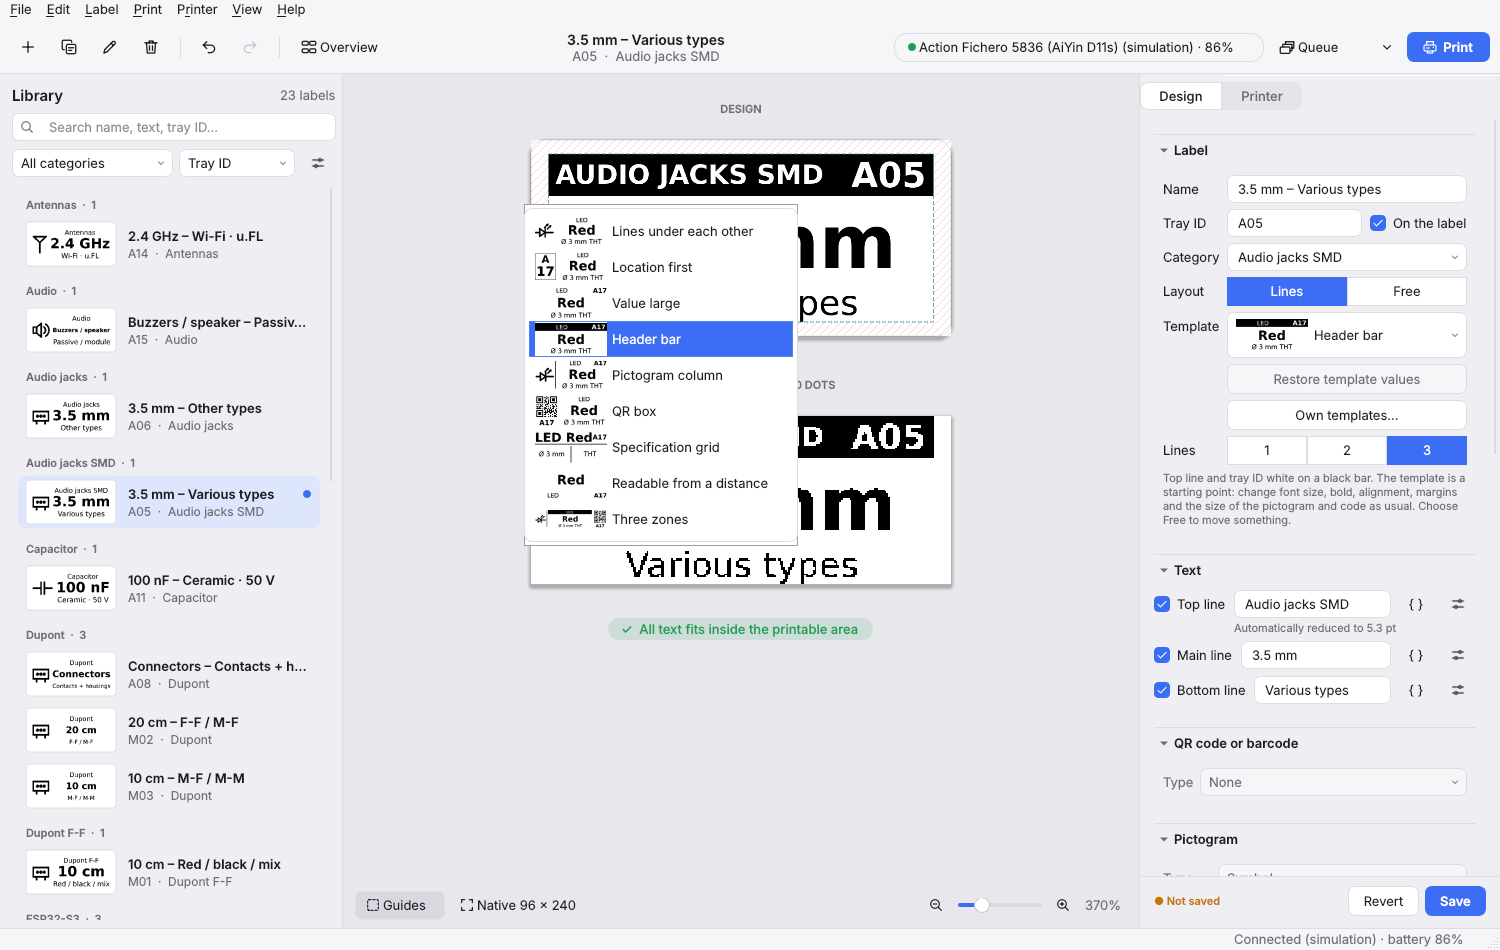
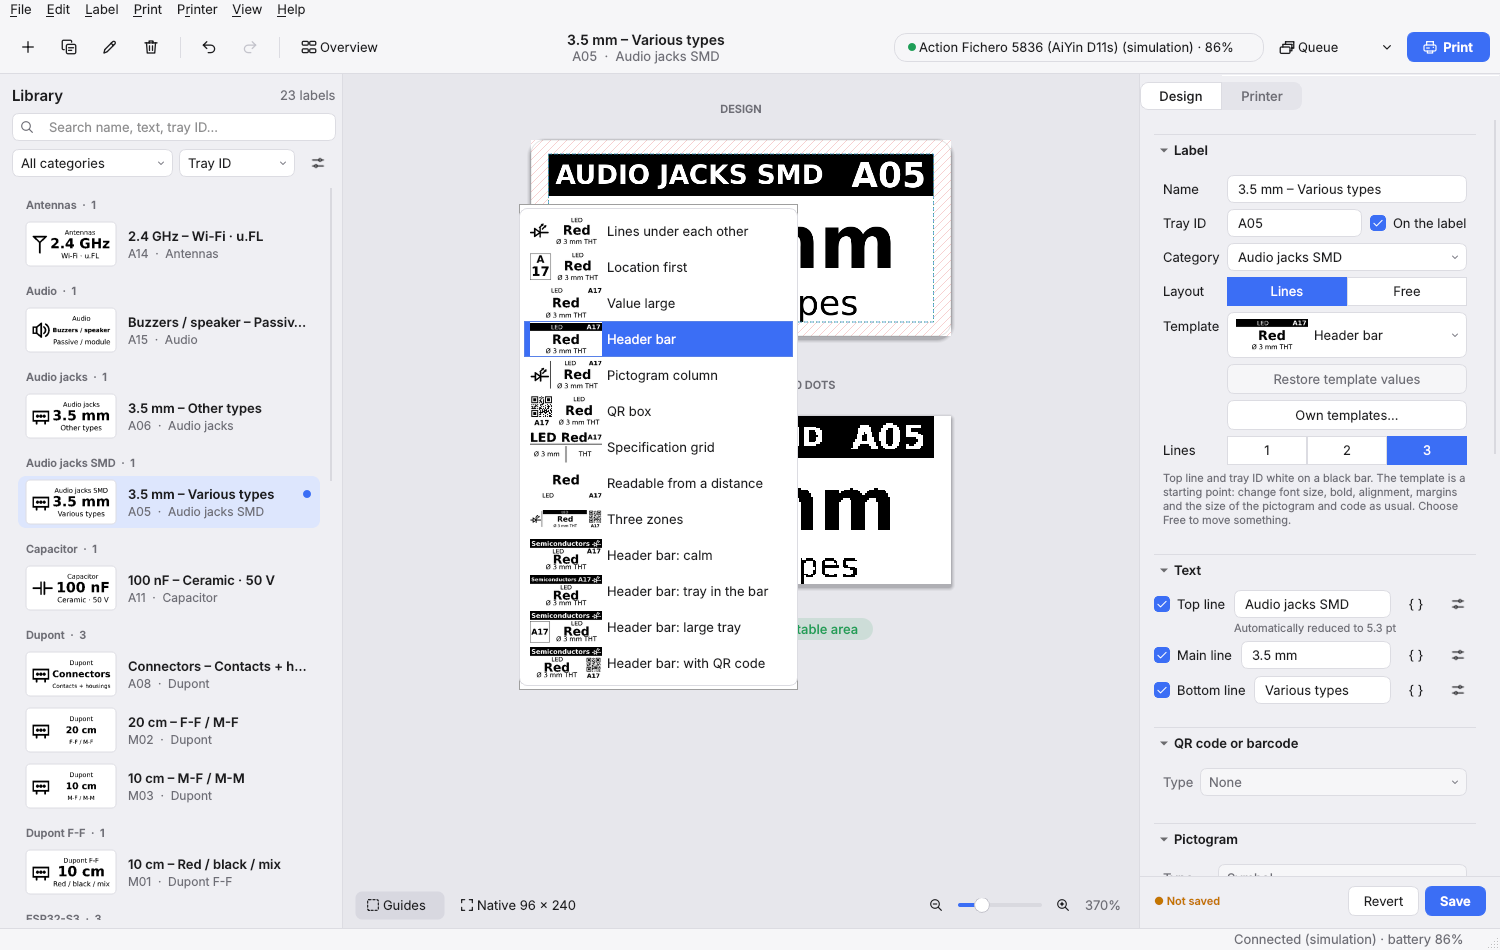
Vier kopbalk-sjablonen: categorie en pictogram wit op een zwarte balk
Rustig (lade-ID rechtsboven), lade in de balk (op smalle rollen in het
witte deel), lade groot in een kader, en met QR-code van het lade-ID.
Lettergrootte bij het omzetten naar Vrij preciezer bewaard, zodat kleine,
verkleinde tekst er hetzelfde uitziet.

Changed region(s): [[0.3373, 0.2137, 0.552, 0.7326]]

diff --git a/src/etiknivo/rendering/templates.py b/src/etiknivo/rendering/templates.py
@@ -69,6 +69,11 @@ TEMPLATE_STYLES: dict[LabelTemplate, tuple[tuple[float, bool, HAlign], ...]] = {
                              (6.5, False, HAlign.LEFT)),
     LabelTemplate.ZONES: ((6, True, HAlign.LEFT), (15, True, HAlign.LEFT),
                           (7, False, HAlign.LEFT)),
+    **{t: ((7, False, HAlign.LEFT), (15, True, HAlign.LEFT), (6.5, False, HAlign.LEFT))
+       for t in (LabelTemplate.BAR_CALM, LabelTemplate.BAR_TRAY)},
+    # beside the tray box or the QR code the text column is narrower
+    **{t: ((7, False, HAlign.LEFT), (14, True, HAlign.LEFT), (6, False, HAlign.LEFT))
+       for t in (LabelTemplate.BAR_LOCATION, LabelTemplate.BAR_QR)},
 }
 
 #: the parts of a line's look a template sets
@@ -212,8 +217,11 @@ class _Builder:
 
 
 #: templates built around a pictogram, and around the QR code's content
-PICTURE_TEMPLATES = (LabelTemplate.ICON, LabelTemplate.ZONES)
-CODE_TEMPLATES = (LabelTemplate.QR, LabelTemplate.ZONES)
+#: the templates with a black bar of the category and the pictogram
+BAR_TEMPLATES = (LabelTemplate.BAR_CALM, LabelTemplate.BAR_TRAY, LabelTemplate.BAR_LOCATION,
+                 LabelTemplate.BAR_QR)
+PICTURE_TEMPLATES = (LabelTemplate.ICON, LabelTemplate.ZONES, *BAR_TEMPLATES)
+CODE_TEMPLATES = (LabelTemplate.QR, LabelTemplate.ZONES, LabelTemplate.BAR_QR)
 #: templates that show the tray ID as a text of their own
 TRAY_TEMPLATES = tuple(t for t in LabelTemplate
                        if t not in (LabelTemplate.NONE, LabelTemplate.CUSTOM, *CODE_TEMPLATES))
@@ -480,6 +488,11 @@ def apply_template(label: Label, template: LabelTemplate, custom_id: str = "") -
         added.append("code_text")
 
 
+def category_field() -> str:
+    """``{Categorie}`` in the current language."""
+    return "{" + tr(BUILTIN_FIELDS["category"][0]) + "}"
+
+
 def tray_field() -> str:
     """``{Lade}`` in the current language, so the free layout shows it as typed."""
     return "{" + tr(BUILTIN_FIELDS["tray_id"][0]) + "}"
@@ -643,6 +656,106 @@ def _zones(b: _Builder) -> None:
             [(SLOT_MAIN, 5.5, 15, True), (SLOT_BOTTOM, 3.0, 7, False)])
 
 
+#: height of the category bar, at a printhead of 12 mm
+BAR_MM = 3.4
+
+
+def _category_bar(b: _Builder, tray: bool = False) -> float:
+    """The category and the pictogram (and with *tray* the tray ID) white on a
+    black bar over the full width; returns the height used."""
+    s, w = b.s, b.w
+    category = b.label.category.strip()
+    tray = tray and bool(b.tray)
+    if not category and not b.has_picture() and not tray:
+        return 0.0
+    bar = BAR_MM * s
+    right = w - 0.4 * s
+    if b.has_picture():
+        right = w - 3.8 * s
+        b.picture(right, 0.25 * s, 3.4 * s, bar - 0.5 * s)
+        right -= 0.4 * s
+    if tray:
+        tray_w = min(5.0 * s, w * 0.2)
+        b.text(right - tray_w, 0.15 * s, tray_w, bar - 0.3 * s, tray_field(), 7, bold=True,
+               align=HAlign.RIGHT, role="tray")
+        right -= tray_w + 0.6 * s
+    if category:
+        b.text(0.4 * s, 0.15 * s, right - 0.4 * s, bar - 0.3 * s, category_field(), 7,
+               bold=True, role="category")
+    b.element(ElementKind.INVERT, 0, 0, w, bar)
+    return bar
+
+
+def _bar_lines(b: _Builder, x: float, y: float, w: float, tray: bool = False) -> None:
+    """The lines below the bar: the top line small (with *tray* the tray ID on
+    its right), the main line large, the bottom line small."""
+    s, h = b.s, b.h
+    tray = tray and bool(b.tray)
+    top = b.line(SLOT_TOP)
+    if top or tray:
+        top_h = 2.4 * s
+        tray_w = min(6.0 * s, w * 0.35) if tray else 0.0
+        b.text(x, y + 0.1 * s, w - tray_w, top_h - 0.1 * s, top, 7, role="top", slot=SLOT_TOP)
+        b.text(x + w - tray_w, y + 0.1 * s, tray_w, top_h - 0.1 * s,
+               tray_field() if tray else "", 7, bold=True, align=HAlign.RIGHT, role="tray")
+        y += top_h
+    # the bottom line keeps a little room under it for descenders such as |
+    b.stack(x, y, w, h - y - 0.3 * s, [(SLOT_MAIN, 3.7, 15, True),
+                                      (SLOT_BOTTOM, 2.3, 6.5, False)])
+
+
+def _bar_calm(b: _Builder) -> None:
+    s = b.s
+    y = _category_bar(b)
+    _bar_lines(b, 0.3 * s, y, b.w - 0.6 * s, tray=True)
+
+
+#: below this width (at a 12 mm printhead) the tray ID does not fit in the bar
+#: next to the category, and goes to the right of the top line instead
+_BAR_TRAY_MIN_MM = 24.0
+
+
+def _bar_tray(b: _Builder) -> None:
+    s = b.s
+    in_bar = b.w / s >= _BAR_TRAY_MIN_MM
+    y = _category_bar(b, tray=in_bar)
+    _bar_lines(b, 0.3 * s, y, b.w - 0.6 * s, tray=not in_bar)
+
+
+def _bar_location(b: _Builder) -> None:
+    s, h = b.s, b.h
+    y = _category_bar(b)
+    x = 0.3 * s
+    if b.tray:
+        box_w = min(7.5 * s, b.w * 0.3)
+        top = y + 0.5 * s
+        b.element(ElementKind.BOX, 0, top, box_w, h - top)
+        b.text(0.4 * s, top + 0.3 * s, box_w - 0.8 * s, h - top - 0.6 * s, tray_field(), 14,
+               bold=True, align=HAlign.CENTER, role="tray")
+        x = box_w + 0.8 * s
+    _bar_lines(b, x, y, b.w - x - 0.2 * s)
+
+
+def _bar_qr(b: _Builder) -> None:
+    s, w, h = b.s, b.w, b.h
+    y = _category_bar(b)
+    x1 = w - 0.3 * s
+    if b.has_code():
+        content = b.label.code.text.strip() or tray_field()
+        cap = 2.2 * s if b.label.code.caption else 0.0
+        room = h - y - 0.4 * s - cap
+        q = min(b.column(room, "code"), room, w * 0.3)
+        col = max(q, 6.6 * s) if cap else q
+        cx = w - col
+        qy = y + 0.4 * s + (room - q) / 2
+        b.element(ElementKind.QR, cx + (col - q) / 2, qy, q, q, text=content)
+        if cap:
+            b.text(cx, h - cap, col, cap, content, 6.5, bold=True, align=HAlign.CENTER,
+                   role="code")
+        x1 = cx - 0.6 * s
+    _bar_lines(b, 0.3 * s, y, x1 - 0.3 * s)
+
+
 _BUILDERS = {
     LabelTemplate.LOCATION: _location,
     LabelTemplate.VALUE: _value,
@@ -652,6 +765,10 @@ _BUILDERS = {
     LabelTemplate.GRID: _grid,
     LabelTemplate.DISTANCE: _distance,
     LabelTemplate.ZONES: _zones,
+    LabelTemplate.BAR_CALM: _bar_calm,
+    LabelTemplate.BAR_TRAY: _bar_tray,
+    LabelTemplate.BAR_LOCATION: _bar_location,
+    LabelTemplate.BAR_QR: _bar_qr,
     LabelTemplate.CUSTOM: _custom,
 }
 

diff --git a/tests/test_templates.py b/tests/test_templates.py
@@ -20,6 +20,7 @@ from etiknivo.model import (
 )
 from etiknivo.rendering.engine import RenderEngine
 from etiknivo.rendering.templates import (
+    BAR_TEMPLATES,
     apply_template,
     capitals,
     differs_from_template,
@@ -398,3 +399,35 @@ def test_panel_switches_code_and_tray_off(qtbot, window) -> None:  # noqa: ANN00
     box.setCurrentIndex(box.findData(LabelTemplate.NONE.value))
     box.activated.emit(box.currentIndex())
     assert not props.tray_show.isVisibleTo(props) and barcode.isEnabled()
+
+
+@pytest.mark.parametrize("template", BAR_TEMPLATES)
+def test_bar_templates_show_category_and_pictogram_white_on_black(
+        engine: RenderEngine, template: LabelTemplate) -> None:
+    lbl = led()
+    lbl.picture.kind = PictureKind.NONE
+    apply_template(lbl, template)
+    assert lbl.picture.kind == PictureKind.SYMBOL  # the template picks one
+    items, _ = engine.template_items(lbl)
+    texts = {p.role: p.element.text for p in items if p.element.kind == ElementKind.TEXT}
+    assert texts["category"] == "{Categorie}"
+    kinds = [p.element.kind for p in items]
+    assert ElementKind.INVERT in kinds and ElementKind.SYMBOL in kinds
+    r = engine.render(lbl)
+    px0, py0, px1, _ = engine.printable_box
+    bar = (px0, py0, px1, py0 + 27)  # 3.4 mm
+    area = (bar[2] - bar[0]) * (bar[3] - bar[1])
+    assert 0.6 * area < ink(r.mono, bar) < area
+    assert (ElementKind.QR in kinds) == (template == LabelTemplate.BAR_QR)
+
+
+def test_tray_goes_out_of_the_bar_on_a_narrow_roll() -> None:
+    def tray_in_bar(engine: RenderEngine) -> bool:
+        lbl = led()
+        apply_template(lbl, LabelTemplate.BAR_TRAY)
+        items, _ = engine.template_items(lbl)
+        bar = next(p.element for p in items if p.element.kind == ElementKind.INVERT)
+        tray = next(p.element for p in items if p.role == "tray")
+        return tray.y_mm < bar.h_mm
+    assert tray_in_bar(RenderEngine())
+    assert not tray_in_bar(RenderEngine(RenderEngine().profile.with_label(22.0, 14.0)))

diff --git a/src/etiknivo/model.py b/src/etiknivo/model.py
@@ -163,6 +163,11 @@ class LabelTemplate(StrEnum):
     GRID = "grid"
     DISTANCE = "distance"
     ZONES = "zones"
+    #: a black bar with the category and the pictogram, the text below it
+    BAR_CALM = "bar_calm"
+    BAR_TRAY = "bar_tray"
+    BAR_LOCATION = "bar_location"
+    BAR_QR = "bar_qr"
     #: one of the user's own templates (see ``Label.custom_template``)
     CUSTOM = "custom"
 
@@ -191,6 +196,18 @@ TEMPLATE_INFO: dict[LabelTemplate, tuple[str, str]] = {
     LabelTemplate.ZONES: (N_("Drie zones"),
                           N_("Pictogram, tekst met kopbalk en QR-code naast elkaar; voor "
                              "lange labels")),
+    LabelTemplate.BAR_CALM: (N_("Kopbalk: rustig"),
+                             N_("Categorie en pictogram op een zwarte balk; lade-ID "
+                                "rechtsboven in het witte deel")),
+    LabelTemplate.BAR_TRAY: (N_("Kopbalk: lade in de balk"),
+                             N_("Categorie, lade-ID en pictogram op een zwarte balk; "
+                                "eronder de drie regels")),
+    LabelTemplate.BAR_LOCATION: (N_("Kopbalk: lade groot"),
+                                 N_("Categorie en pictogram op een zwarte balk; lade-ID "
+                                    "groot in een kader links")),
+    LabelTemplate.BAR_QR: (N_("Kopbalk: met QR-code"),
+                           N_("Categorie en pictogram op een zwarte balk; QR-code met "
+                              "lade-ID rechts")),
 }
 
 #: the layout stored for each quick choice of 1, 2 or 3 lines

diff --git a/src/etiknivo/locale/en.py b/src/etiknivo/locale/en.py
@@ -925,6 +925,18 @@ EN: dict[str, str] = {
     "Drie zones": "Three zones",
     "Pictogram, tekst met kopbalk en QR-code naast elkaar; voor lange labels":
         "Pictogram, text with a header bar and QR code side by side; for long labels",
+    "Kopbalk: rustig": "Header bar: calm",
+    "Categorie en pictogram op een zwarte balk; lade-ID rechtsboven in het witte deel":
+        "Category and pictogram on a black bar; tray ID top right in the white part",
+    "Kopbalk: lade in de balk": "Header bar: tray in the bar",
+    "Categorie, lade-ID en pictogram op een zwarte balk; eronder de drie regels":
+        "Category, tray ID and pictogram on a black bar; the three lines below it",
+    "Kopbalk: lade groot": "Header bar: large tray",
+    "Categorie en pictogram op een zwarte balk; lade-ID groot in een kader links":
+        "Category and pictogram on a black bar; tray ID large in a frame on the left",
+    "Kopbalk: met QR-code": "Header bar: with QR code",
+    "Categorie en pictogram op een zwarte balk; QR-code met lade-ID rechts":
+        "Category and pictogram on a black bar; QR code with the tray ID on the right",
     "Kies een pictogram voor dit sjabloon": "Choose a pictogram for this template",
     "Dit sjabloon heeft tekst nodig: vul de regels of de lade-ID in":
         "This template needs text: fill in the lines or the tray ID",

diff --git a/scripts/screenshots.py b/scripts/screenshots.py
@@ -134,7 +134,9 @@ def template_shots(app: QApplication, out: Path, names: tuple[str, str, str]) ->
     lbl.top.text, lbl.top.enabled = "LED", True
     lbl.picture.kind, lbl.picture.symbol = PictureKind.SYMBOL, "led"
     tiles = []
-    for tpl in LabelTemplate:
+    # the long-label template last, so it can get a row of its own
+    order = sorted(LabelTemplate, key=lambda t: t == LabelTemplate.ZONES)
+    for tpl in order:
         if tpl == LabelTemplate.CUSTOM:  # the user's own: none in the sheet
             continue
         apply_template(lbl, tpl)

diff --git a/src/etiknivo/rendering/engine.py b/src/etiknivo/rendering/engine.py
@@ -846,7 +846,7 @@ class RenderEngine:
                 (x0, y0, x1, y1), size = r.element_text[el.id]
                 # two dots of air, on the side the text does not lean against
                 left = {HAlign.LEFT: 0.0, HAlign.CENTER: 1.0, HAlign.RIGHT: 2.0}[el.align]
-                el.font_size_pt = round(size, 2)
+                el.font_size_pt = round(size, 4)
                 el.move_to((x0 - left - px0) / dpm, (y0 - 1.0 - py0) / dpm)
                 el.resize((x1 - x0 + 2.0) / dpm, (y1 - y0 + 2.0) / dpm)
             out.append(el)

diff --git a/docs/nl/handleiding.md b/docs/nl/handleiding.md
@@ -177,14 +177,18 @@ Bij **Sjabloon** kies je met één klik een indeling zoals professionele bak-, m
 | Specificatie-raster | boven- en hoofdregel als kop, de onderregel in vakjes | dezelfde eigenschap staat altijd op dezelfde plek |
 | Op afstand leesbaar | alleen de hoofdregel, zo groot als past | één woord dat het vak onderscheidt |
 | Drie zones | pictogram, tekst met kopbalk, QR-code naast elkaar | bedoeld voor lange labels (40 of 50 mm) |
+| Kopbalk: rustig | categorie en pictogram wit op een zwarte balk; eronder bovenregel met lade-ID rechts, hoofdregel groot, onderregel klein | de balk groepeert de kast, de hoofdregel houdt de meeste ruimte |
+| Kopbalk: lade in de balk | als *rustig*, maar het lade-ID staat wit in de balk naast het pictogram | het witte deel is helemaal voor de tekst; op smalle rollen gaat het lade-ID naar het witte deel |
+| Kopbalk: lade groot | als *rustig*, met het lade-ID groot in een kader links | het vak lees je van een afstand in de kast |
+| Kopbalk: met QR-code | als *rustig*, met rechts een QR-code van het lade-ID en het lade-ID eronder | voor wie met de telefoon scant |
 
 Goed om te weten:
 
 - **Specificatie-raster**: scheid de vakjes in de onderregel met `|`, bijvoorbeeld `Ø 3 mm | THT | 20 mA | 2,0 V`. Zonder `|` staat de hele onderregel in één vak.
-- **Pictogram-kolom** en **Drie zones** kiezen zelf een passend symbool als het label nog geen pictogram had. Bij **QR-vak** en **Drie zones** staat de inhoud van de code standaard op `{Lade}`. Kies je daarna een sjabloon dat ze niet gebruikt (bijvoorbeeld weer *Regels onder elkaar*), dan gaat wat het sjabloon zelf aanzette weer uit. Een pictogram dat je zelf had gekozen of daarna zelf veranderde, blijft staan.
+- **Pictogram-kolom**, **Drie zones** en de vier **Kopbalk**-sjablonen kiezen zelf een passend symbool als het label nog geen pictogram had. Bij **QR-vak**, **Drie zones** en **Kopbalk: met QR-code** staat de inhoud van de code standaard op `{Lade}`. Kies je daarna een sjabloon dat ze niet gebruikt (bijvoorbeeld weer *Regels onder elkaar*), dan gaat wat het sjabloon zelf aanzette weer uit. Een pictogram dat je zelf had gekozen of daarna zelf veranderde, blijft staan.
 - Met *Zelfde lettergrootte binnen de categorie* aan krijgen labels met hetzelfde sjabloon in een categorie per onderdeel dezelfde lettergrootte, zodat de kast er rustig uitziet.
 - **Voortbouwen op een sjabloon**: een sjabloon is een startpunt. Bij het kiezen krijgen de regels de lettergrootte, vet en uitlijning van het sjabloon; daarna pas je die gewoon aan in *Tekst*. De lettergrootte is de grootste grootte in het vak: past de tekst niet, dan wordt hij kleiner. Ook de marges (maken het sjabloon kleiner), *Wit op zwart*, de rand en de grootte (Klein, Middel, Groot) van het pictogram en de QR-code werken. Wat het sjabloon zelf bepaalt (verticaal, regelafstand, rotatie, de lijn tussen regels en de plaats van pictogram en code) is grijs, met de reden erbij. **Sjabloonwaarden herstellen** zet je wijzigingen terug; ga je terug naar *Regels onder elkaar*, dan krijgen de regels hun opmaak van vóór het sjabloon terug.
-- **Onderdelen uitzetten**: bij **QR-vak** en **Drie zones** zet je *Soort* onder *QR-code of barcode* op *Geen* om de QR-code weg te laten, of zet je *Tekst onder de QR-code* uit; de rest van het etiket schuift mee en wordt groter. Een barcode kan niet in een sjabloon. Bij de sjablonen die het lade-ID als eigen tekst tonen, staat naast *Lade-ID* het vinkje **Op het etiket**: uit haalt het lade-ID van het etiket, maar het blijft bewaard (bijvoorbeeld voor `{Lade}` in de QR-code). Een pictogram zet je net zo uit met *Soort: Geen*.
+- **Onderdelen uitzetten**: bij **QR-vak**, **Drie zones** en **Kopbalk: met QR-code** zet je *Soort* onder *QR-code of barcode* op *Geen* om de QR-code weg te laten, of zet je *Tekst onder de QR-code* uit; de rest van het etiket schuift mee en wordt groter. Een barcode kan niet in een sjabloon. Bij de sjablonen die het lade-ID als eigen tekst tonen, staat naast *Lade-ID* het vinkje **Op het etiket**: uit haalt het lade-ID van het etiket, maar het blijft bewaard (bijvoorbeeld voor `{Lade}` in de QR-code). Een pictogram zet je net zo uit met *Soort: Geen*.
 - **Kleine aanpassingen**: kies daarna **Vrij**. Je krijgt dan precies de elementen van het sjabloon, die je kunt verschuiven of vergroten.
 - Met **Opmaak overnemen → Layout** of de kolom **Sjabloon** in *Labels bewerken* geef je veel labels tegelijk hetzelfde sjabloon.
 

diff --git a/docs/en/user-guide.md b/docs/en/user-guide.md
@@ -179,14 +179,18 @@ Under **Template** you pick, with one click, an arrangement like those of profes
 | Specification grid | top and main line as the heading, the bottom line in cells | the same property is always in the same place |
 | Readable from a distance | only the main line, as large as it fits | one word that tells the drawer apart |
 | Three zones | pictogram, text with header bar, QR code side by side | meant for long labels (40 or 50 mm) |
+| Header bar: calm | category and pictogram white on a black bar; below it the top line with the tray ID on the right, the main line large, the bottom line small | the bar groups the cabinet, the main line keeps the most room |
+| Header bar: tray in the bar | like *calm*, but the tray ID is white in the bar next to the pictogram | the white part is all for the text; on narrow rolls the tray ID moves to the white part |
+| Header bar: large tray | like *calm*, with the tray ID large in a frame on the left | you read the drawer from a distance in the cabinet |
+| Header bar: with QR code | like *calm*, with a QR code of the tray ID on the right and the tray ID below it | for scanning with a phone |
 
 Good to know:
 
 - **Specification grid**: separate the cells in the bottom line with `|`, for example `Ø 3 mm | THT | 20 mA | 2.0 V`. Without `|` the whole bottom line is one cell.
-- **Pictogram column** and **Three zones** pick a fitting symbol themselves when the label had no pictogram yet. With **QR box** and **Three zones** the code's content starts as `{Tray}`. If you then pick a template that does not use them (for example *Lines under each other* again), what the template switched on by itself goes off again. A pictogram you had chosen yourself, or changed afterwards, stays.
+- **Pictogram column**, **Three zones** and the four **Header bar** templates pick a fitting symbol themselves when the label had no pictogram yet. With **QR box**, **Three zones** and **Header bar: with QR code** the code's content starts as `{Tray}`. If you then pick a template that does not use them (for example *Lines under each other* again), what the template switched on by itself goes off again. A pictogram you had chosen yourself, or changed afterwards, stays.
 - With *Same font size within the category* on, labels with the same template in a category get the same font size per part, so the cabinet looks calm.
 - **Building on a template**: a template is a starting point. When you pick it, the lines get the template's font size, bold and alignment; afterwards you change those as usual under *Text*. The font size is the largest size in the box: text that does not fit gets smaller. The margins (they make the template smaller), *White on black*, the border and the size (Small, Medium, Large) of the pictogram and QR code work too. What the template decides itself (vertical, line spacing, rotation, the line between lines and the place of the pictogram and code) is greyed out, with the reason. **Restore template values** undoes your changes; going back to *Lines under each other* gives the lines their look from before the template.
-- **Switching parts off**: in **QR box** and **Three zones** set *Type* under *QR code or barcode* to *None* to leave the QR code out, or switch off *Text under the QR code*; the rest of the label moves along and gets larger. A barcode cannot go in a template. In the templates that show the tray ID as a text of their own, the **On the label** tick box next to *Tray ID* takes it off the label; the tray ID itself is kept (for `{Lade}` in the QR code, for example). A pictogram goes off the same way with *Type: None*.
+- **Switching parts off**: in **QR box**, **Three zones** and **Header bar: with QR code** set *Type* under *QR code or barcode* to *None* to leave the QR code out, or switch off *Text under the QR code*; the rest of the label moves along and gets larger. A barcode cannot go in a template. In the templates that show the tray ID as a text of their own, the **On the label** tick box next to *Tray ID* takes it off the label; the tray ID itself is kept (for `{Lade}` in the QR code, for example). A pictogram goes off the same way with *Type: None*.
 - **Small changes**: choose **Free** afterwards. You then get exactly the template's elements, to move or resize.
 - With **Copy format → Layout** or the **Template** column in *Edit labels* you give many labels the same template at once.
 

diff --git a/CHANGELOG.md b/CHANGELOG.md
@@ -6,6 +6,7 @@ All notable changes to Etiknivo are listed here. Version numbers follow [Semanti
 
 ### Designing labels
 - **Templates**: under *Sjabloon* pick a ready-made arrangement after professional bin, warehouse and 5S labels: Location first, Value large, Header bar, Pictogram column, QR box, Specification grid, Readable from a distance and Three zones (for long labels). The text keeps coming from the lines, the tray ID, the QR code and the pictogram; labels with the same template in a category share their font sizes. Choose *Vrij* afterwards for small changes; the elements are exactly the template's. *Labels bewerken* has a Template column to give many labels a template at once. A template is a starting point: it sets the lines' size, bold and alignment, which you can change afterwards, along with margins and the pictogram and QR size; *Sjabloonwaarden herstellen* goes back. A pictogram or QR content a template switched on by itself goes off again when the label goes back to a template that does not use it; what you set yourself stays.
+- Four new **header bar** templates: the category and the pictogram white on a black bar, with below it the lines and the tray ID top right (*rustig*), the tray ID in the bar (*lade in de balk*), the tray ID large in a frame (*lade groot*) or a QR code of the tray ID (*met QR-code*).
 - **Own templates**: *Eigen sjablonen…* opens a separate window to make templates of your own, empty or as a copy of a ready-made one. You place and size the parts as in the free layout. Fields such as `{Hoofdregel}`, `{Lade}`, `{Code}` and `{Cel 1}` and the label's pictogram fill the template from every label. Own templates appear in the chooser with a preview and in *Labels bewerken*. The window has its own undo and redo (Ctrl+Z / Ctrl+Shift+Z) and Ctrl+S to save; *Nieuw* keeps the new template at once, so picking another one does not ask to save. They can be duplicated, renamed and deleted, scale with the roll, and are stored in the library and in JSON exports. The ready-made templates stay as they are.
 - The new part fields (`{Bovenregel}`, `{Hoofdregel}`, `{Onderregel}`, `{Cel 1}`–`{Cel 6}`, `{Code}`, `{Laderij}`, `{Ladenummer}`) also work in the free layout. So does the symbol *Pictogram van het label*, which shows each label's own pictogram.
 - Snapping: a dragged element (free layout and own templates) lines up with the edges and centres of the other elements and of the printable area, with a pink guide line; hold Alt to drag freely.
